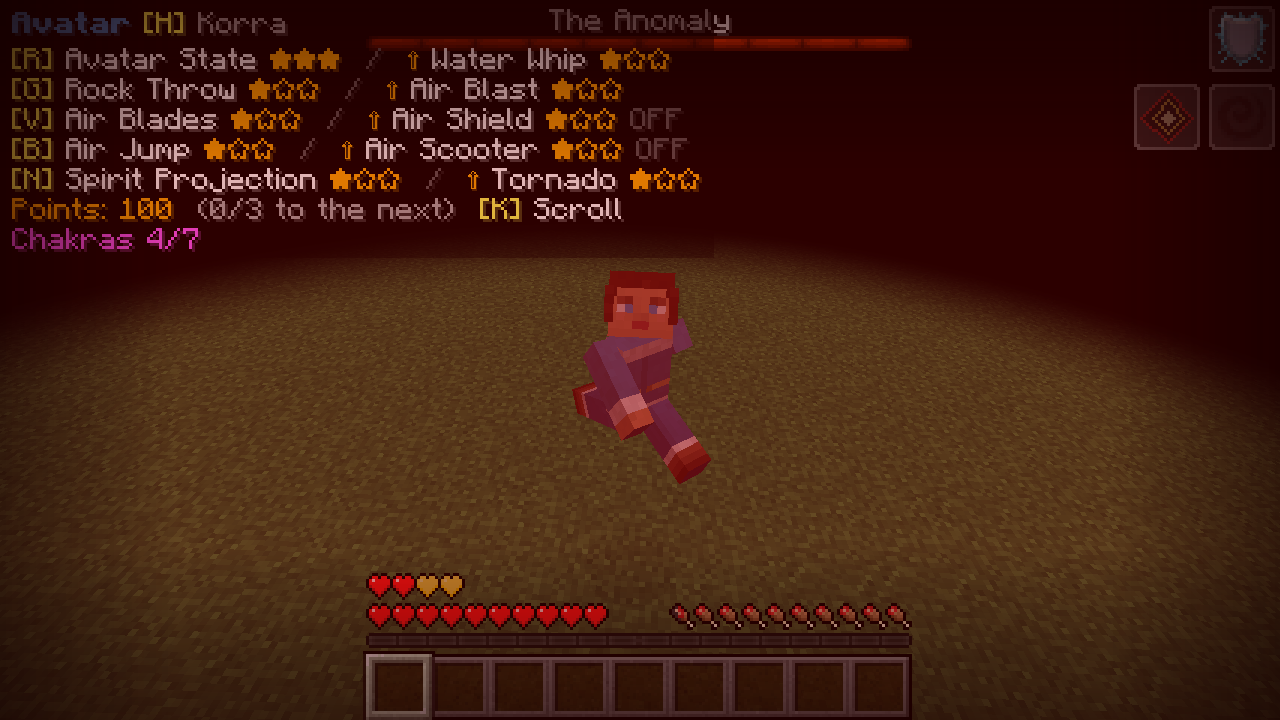
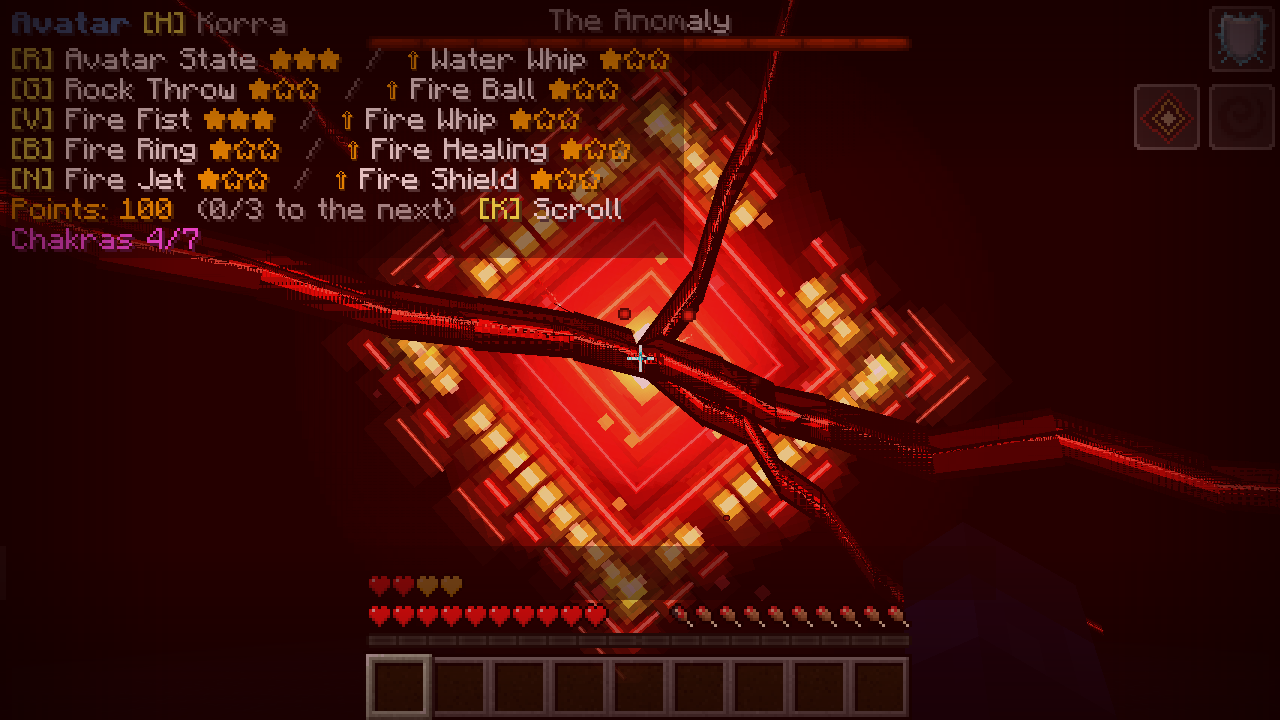
The Anomaly shines through the darkness it brings
The Darkness effect closes the fog in, which hid the Anomaly from the
very player it struck. Every Anomaly within 128 blocks is now drawn
after the particles with the shader fog lifted, and the fog is put back
afterwards. The tour looks straight at it in the dark; the wiki and
gallery picture of the dread now show it there.

Claude-Session: https://claude.ai/code/session_01HgcmNsSLkCu1C6RphdV8vc

diff --git a/src/main/java/com/kolodkingal/enlightened/client/render/AnomalyRenderer.java b/src/main/java/com/kolodkingal/enlightened/client/render/AnomalyRenderer.java
@@ -1,16 +1,26 @@
 package com.kolodkingal.enlightened.client.render;
 
 import com.kolodkingal.enlightened.entity.AnomalyEntity;
+import com.kolodkingal.enlightened.client.fx.FxGeometry;
+import com.mojang.blaze3d.systems.RenderSystem;
 import com.mojang.blaze3d.vertex.PoseStack;
+import net.minecraft.client.Minecraft;
 import net.minecraft.client.renderer.MultiBufferSource;
 import net.minecraft.client.renderer.entity.EntityRenderer;
 import net.minecraft.client.renderer.entity.EntityRendererProvider;
 import net.minecraft.resources.ResourceLocation;
 import net.minecraft.world.phys.Vec3;
+import net.neoforged.neoforge.client.event.RenderLevelStageEvent;
 
-/** The Anomaly, as pure energy ({@link AnomalyArt}), hung at the middle of its body. */
+/**
+ * The Anomaly ({@link AnomalyArt}). It is drawn not with the other creatures but after them, with the fog put aside: it
+ * is light itself, and shines through the darkness it brings (the Darkness effect closes the fog in, which would hide
+ * anything else).
+ */
 public class AnomalyRenderer extends EntityRenderer<AnomalyEntity> {
     private static final ResourceLocation WHITE = com.kolodkingal.enlightened.Enlightened.id("textures/entity/anomaly.png");
+    /** How far off an Anomaly is still drawn. */
+    private static final double RANGE = 128.0;
 
     public AnomalyRenderer(EntityRendererProvider.Context context) {
         super(context);
@@ -19,13 +29,39 @@ public class AnomalyRenderer extends EntityRenderer<AnomalyEntity> {
 
     @Override
     public void render(AnomalyEntity entity, float yaw, float partialTick, PoseStack pose, MultiBufferSource buffer, int light) {
-        pose.pushPose();
-        pose.translate(0.0, entity.getBbHeight() / 2.0, 0.0);
-        Vec3 toCam = entityRenderDispatcher.camera.getPosition().subtract(entity.getPosition(partialTick).add(0, entity.getBbHeight() / 2.0, 0));
-        AnomalyArt.draw(pose, buffer, entityRenderDispatcher.cameraOrientation(), toCam, entity.tickCount + partialTick, entity.getId(), 1.5F,
-                entity.hurtTime > 0 ? 1.0F : 0.0F, 8, 9.0);
-        pose.popPose();
+        // Drawn in the level's late stage instead (drawAll), past the fog.
         super.render(entity, yaw, partialTick, pose, buffer, light);
+    }
+
+    /** Draws every Anomaly near the camera, the fog lifted while it is drawn and put back after. */
+    public static void drawAll(RenderLevelStageEvent event) {
+        Minecraft mc = Minecraft.getInstance();
+        if (mc.level == null) {
+            return;
+        }
+        Vec3 cam = event.getCamera().getPosition();
+        float partial = event.getPartialTick().getGameTimeDeltaPartialTick(false);
+        var list = mc.level.getEntitiesOfClass(AnomalyEntity.class, new net.minecraft.world.phys.AABB(cam, cam).inflate(RANGE), AnomalyEntity::isAlive);
+        if (list.isEmpty()) {
+            return;
+        }
+        float fogStart = RenderSystem.getShaderFogStart();
+        float fogEnd = RenderSystem.getShaderFogEnd();
+        RenderSystem.setShaderFogStart(Float.MAX_VALUE / 2);
+        RenderSystem.setShaderFogEnd(Float.MAX_VALUE);
+        MultiBufferSource.BufferSource buffers = FxGeometry.source();
+        PoseStack pose = event.getPoseStack();
+        for (AnomalyEntity e : list) {
+            Vec3 mid = e.getPosition(partial).add(0, e.getBbHeight() / 2.0, 0);
+            pose.pushPose();
+            pose.translate(mid.x - cam.x, mid.y - cam.y, mid.z - cam.z);
+            AnomalyArt.draw(pose, buffers, mc.getEntityRenderDispatcher().cameraOrientation(), cam.subtract(mid), e.tickCount + partial, e.getId(),
+                    1.5F, e.hurtTime > 0 ? 1.0F : 0.0F, 8, 9.0);
+            pose.popPose();
+            buffers.endBatch();
+        }
+        RenderSystem.setShaderFogStart(fogStart);
+        RenderSystem.setShaderFogEnd(fogEnd);
     }
 
     @Override

diff --git a/src/main/java/com/kolodkingal/enlightened/client/dev/Tour.java b/src/main/java/com/kolodkingal/enlightened/client/dev/Tour.java
@@ -1306,7 +1306,11 @@ public final class Tour {
         cmd("tp @s 30.5 -60 -9.5 0 -28", 2);
         camera(CameraType.FIRST_PERSON, 2);
         for (int i = 0; i < 4; i++) {
-            shot("307_anomaly_night_" + i, 8);
+            // Look at it where it drifts, through the darkness it brings.
+            server(p -> p.serverLevel().getEntitiesOfClass(com.kolodkingal.enlightened.entity.AnomalyEntity.class, p.getBoundingBox().inflate(40))
+                    .stream().findFirst().ifPresent(a -> p.lookAt(net.minecraft.commands.arguments.EntityAnchorArgument.Anchor.EYES,
+                            a.position().add(0, a.getBbHeight() / 2, 0))), 2);
+            shotWithOverlays("307_anomaly_night_" + i, 6);
         }
         cmd("time set noon", 2);
         camera(CameraType.THIRD_PERSON_BACK, 2);

diff --git a/src/main/java/com/kolodkingal/enlightened/client/ClientEvents.java b/src/main/java/com/kolodkingal/enlightened/client/ClientEvents.java
@@ -266,6 +266,7 @@ public final class ClientEvents {
         if (event.getStage() == RenderLevelStageEvent.Stage.AFTER_PARTICLES) {
             WorldFxRenderer.render(event);
             com.kolodkingal.enlightened.client.cosmic.CosmicRenderer.render(event);
+            com.kolodkingal.enlightened.client.render.AnomalyRenderer.drawAll(event);
         }
     }
 

diff --git a/docs/DESIGN.md b/docs/DESIGN.md
@@ -505,3 +505,4 @@ Bending also hits every creature in its way (`general.hurtEverything`, §0).
 | The cubes | `AnomalyBlock` (a `BaseEntityBlock`, `ENTITYBLOCK_ANIMATED`, no occlusion) with `AnomalyCubeBlockEntity` (`ModBlocks.ANOMALY_CUBE`, `BLOCK_ENTITIES`), drawn by `AnomalyCubeRenderer`: `AnomalyArt` at 0.24, three short bolts, bobbing, each cube on its own phase. |
 | Dread | `ModEffects.DREAD` (`DreadEffect`, 100 ticks, −15 % speed): the Anomaly's bolt gives it with Darkness (140 ticks) and a warden's roar; it shrieks every 160 ticks while fighting. `DreadOverlay` (a GUI layer): the screen tinted blood red or black on an uneven beat (two quick red flashes, a long dark), the edges closing in, strongest just after a strike, fading at the end. `ClientEvents.onCameraAngles` shakes the view; `onClientTick` plays a heartbeat, faster when fresh. |
 | Two looks | `AnomalyArt.draw` picks by the viewer: with `DREAD` on him, `drawEnergy` (pure energy in its darkness, above); otherwise `drawNeon`, the neon square of 1.0.4 (each frame solid under its glows and core, maroon fills, a yellow-white heart, a red bloom, the bolts a solid red line with a glow). The Anomaly and its cubes alike. **(1.0.6)** |
+| Seen through the dark | The Anomaly is not drawn with the other creatures: `AnomalyRenderer.drawAll` (from `ClientEvents.onRenderLevel`, after particles) draws every Anomaly within 128 blocks with the shader fog lifted (start and end set far, put back after), so the Darkness it brings (which closes the fog in) never hides it. **(1.0.6)** |

diff --git a/docs/wiki/Seven-Havens-HE.md b/docs/wiki/Seven-Havens-HE.md
@@ -56,7 +56,7 @@
 בלבן ובצהוב, וגרגרי אנרגיה שנשאבים פנימה ונזרקים החוצה. היא בולעת את האור סביבה ב**הילה של חושך**, והברקים האדומים
 שלה זוחלים ממנה ב**עשן כהה**. מדי פעם היא רועדת, כאילו היא לא באמת שם, וצורחת.
 
-**הברק האדום שלה מביא אימה**: נזרקים ל**חושך**, הראייה **מהבהבת באדום ובשחור** והקצוות נסגרים, העולם רועד, הלב
+**הברק האדום שלה מביא אימה**: נזרקים ל**חושך**, הראייה **מהבהבת באדום ובשחור** והקצוות נסגרים (אבל האנומליה עצמה זוהרת מבעד לחושך), העולם רועד, הלב
 דופק, והרגליים כבדות (כמה שניות, מתחדש בכל פגיעה). היא מרחפת סביב מי שנלחם בה, מכה ב**ברקים אדומים** ומדי פעם **מתפרצת** החוצה והודפת את כל מי
 שקרוב; מתחת לחצי מהחיים היא מכה מהר וחזק יותר. רק אנומליה אחת ערה ליד מקום בכל פעם.
 

diff --git a/docs/wiki/Seven-Havens.md b/docs/wiki/Seven-Havens.md
@@ -62,7 +62,7 @@ in and flung out. It swallows the light round it in a **halo of darkness**, and 
 **dark smoke**. Now and then it shudders, as if it were not quite there, and shrieks.
 
 Its **red lightning brings dread**: you are thrown into **darkness**, your sight **flashes red and black**, the edges
-closing in, the world shakes, your heart pounds, and your legs go heavy (a few seconds, renewed by every strike). It drifts round whoever fights it,
+closing in (but the Anomaly itself shines through the dark), the world shakes, your heart pounds, and your legs go heavy (a few seconds, renewed by every strike). It drifts round whoever fights it,
 strikes with **red lightning** and now and then **bursts** outward, throwing back everyone near; below half its life it
 strikes faster and harder. Only one is awake near a place at a time.
 

diff --git a/curseforge/changelog.md b/curseforge/changelog.md
@@ -2,6 +2,7 @@
 
 * **Two faces of the Anomaly**: to your eyes it (and its red cubes) is again the **neon square of the show**; only
   once its red lightning has struck you, in your **dread**, do you see it as it truly is, pure energy in its darkness.
+* **The Anomaly shines through the dark**: the darkness of its dread no longer hides it.
 
 # Enlightened 1.0.5
 
